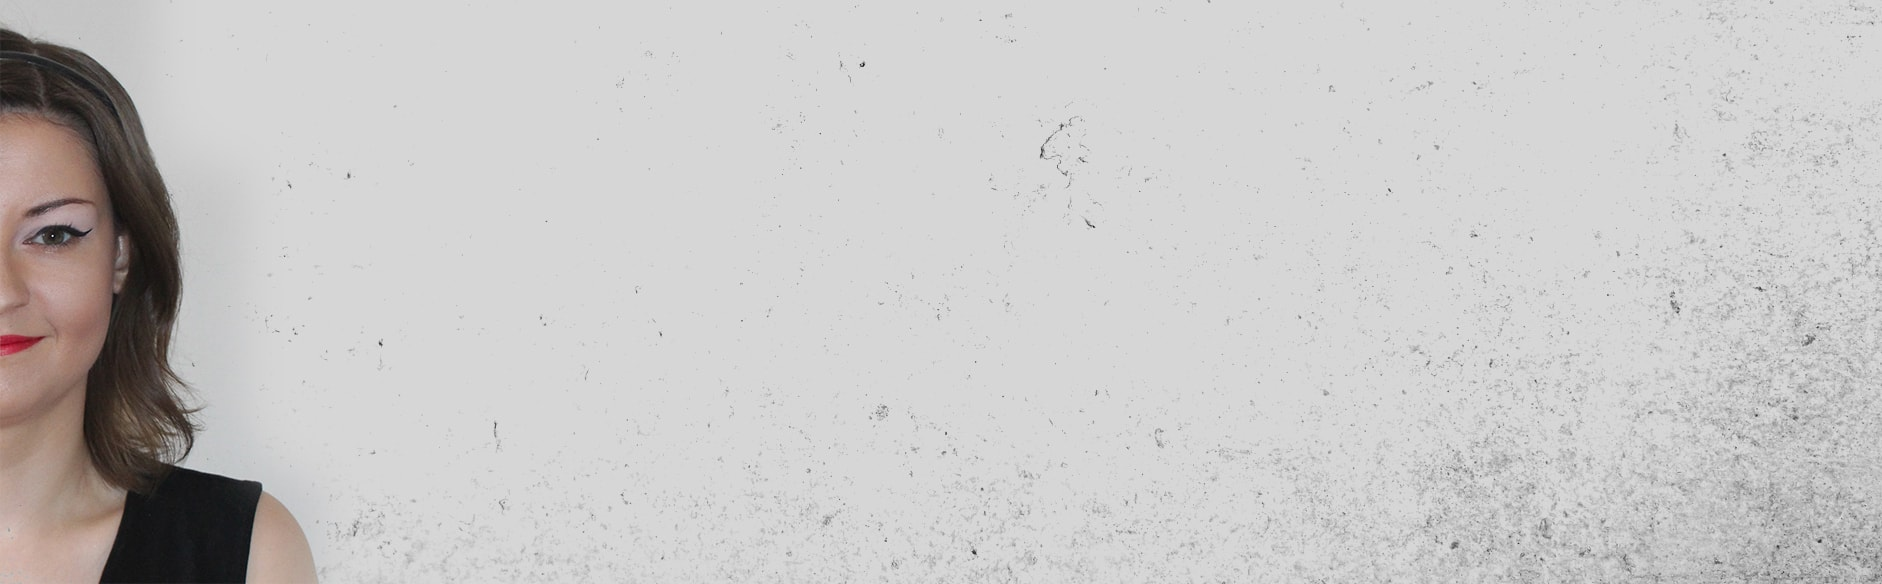
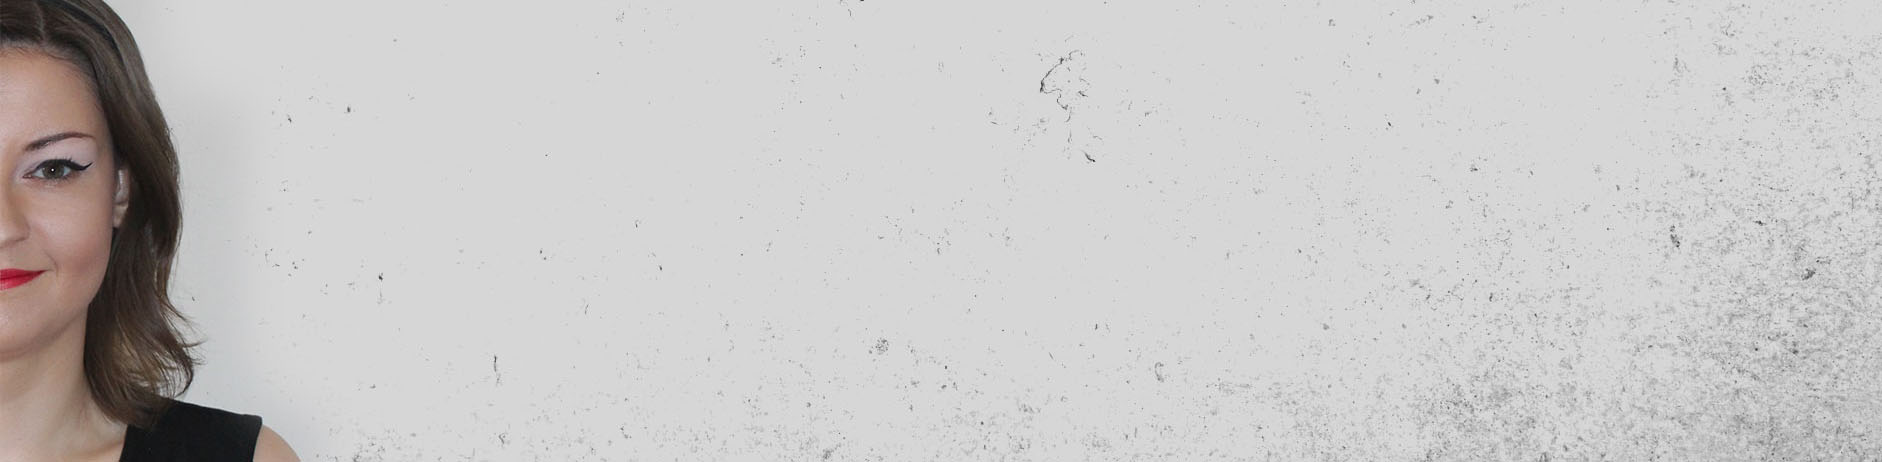
about me

diff --git a/index.html b/index.html
@@ -87,22 +87,29 @@
     
     <div class="about-me" id="about">
             <div class="row">
-                <div class="col-xs-offset-2 col-xs-10 col-sm-offset-3 col-sm-8 col-lg-offset-2 col-md-8 text-center">
-                    <p class="under-construction">STRONA W TRAKCIE TWORZENIA</p>
-                    <p>Design i kod - karomankiewicz.com</p>
+                <div class="col-xs-12 col-sm-offset-2 col-sm-9  text-center content-box">
+                   <h1><span class="highlight">K</span>arolina <span class="highlight">R</span>omankiewicz</h1>
+                    <p>Do tej pory moim głównym narzędziem pracy były słowa; od pewnego czasu dołączyły do nich także, mówiąc po filmowemu, kody i obrazki. Mam ponad sześcioletnie doświadczenie w pisaniu i redagowaniu tekstów (choć tak naprawdę zaczęłam spędzać więcej czasu w Wordzie niż na graniu w Harry'ego Pottera już w wieku trzynastu lat), a w kodowaniu i tworzeniu projektów stron - roczne, ale już dwa lata wcześniej zaczęłam zabawę z gotowymi szablonami (mam też w swoim życiorysie etap tworzenia szablonów na blogi w latach 2004-2007, w czasach, kiedy style dodawało się głównie inline'owo, a cała strona była jedną wielką rodziną div-ów). W tej chwili każdą wolną chwilę poświęcam na naukę programowania - moim celem są strony przyjemne zarówno wizualnie, jak i funkcjonalnie. Słowo pisane pozostaje jednak dla mnie szczególnie istotne, a liczba poprawianych przecinków w tekstach wcale się nie zmniejsza. </p>
+                    <!--<h2><span class="highlight">U</span>miejętności</h2>-->
+                    
                 </div>
             </div>
     </div>
+    
+    <footer class="footer-info">
+        <p>design &copy; <a href="http://karomankiewicz.com">karo</a></p>
+    </footer>
+    
     <script>
-  (function(i,s,o,g,r,a,m){i['GoogleAnalyticsObject']=r;i[r]=i[r]||function(){
-  (i[r].q=i[r].q||[]).push(arguments)},i[r].l=1*new Date();a=s.createElement(o),
-  m=s.getElementsByTagName(o)[0];a.async=1;a.src=g;m.parentNode.insertBefore(a,m)
-  })(window,document,'script','https://www.google-analytics.com/analytics.js','ga');
+      (function(i,s,o,g,r,a,m){i['GoogleAnalyticsObject']=r;i[r]=i[r]||function(){
+      (i[r].q=i[r].q||[]).push(arguments)},i[r].l=1*new Date();a=s.createElement(o),
+      m=s.getElementsByTagName(o)[0];a.async=1;a.src=g;m.parentNode.insertBefore(a,m)
+      })(window,document,'script','https://www.google-analytics.com/analytics.js','ga');
 
-  ga('create', 'UA-99074543-1', 'auto');
-  ga('send', 'pageview');
+      ga('create', 'UA-99074543-1', 'auto');
+      ga('send', 'pageview');
 
-</script>
+    </script>
     <script src="js/bootstrap.min.js" type="text/javascript"></script>
     <script src="js/app.js" type="text/javascript"></script>
 </body>

diff --git a/css/style.css b/css/style.css
@@ -10,6 +10,16 @@ body {
     font-family: 'Raleway', sans-serif;
 }
 
+a {
+    color: #d40028;
+    text-decoration: none;
+}
+
+a:hover {
+    color: #ffa800;
+    text-decoration: none;
+}
+
 .navbar ul {
     list-style-type: none;
     padding: 0;
@@ -25,11 +35,16 @@ body {
     position: fixed;
     min-height: 100%;
     border: none;
-    
+    -webkit-transition: width 0.65s; /* Safari */
+    transition: width 2s 0.65s;
+    z-index: 9;
 }
 
 .navbar-fixed-full {
     width: 200px;
+    -webkit-transition: width 2s; /* Safari */
+    transition: width 2s;
+
 }
 
 .navbar-fixed-top {
@@ -102,6 +117,7 @@ body {
 
 .social-list-hidden {
     display: none;
+    transition: display 0.2s;
 }
 
 .social-list-open {
@@ -134,7 +150,7 @@ body {
     display: none;
     width: 200px;
     text-transform: uppercase;
-    
+    transition: display 0.1s ease;
 }
 
 .menu-list {
@@ -186,7 +202,7 @@ li a:hover {
 }
 
 .jumbotron {
-    height: 500px;
+    height: 420px;
     background-image: url(../img/header.jpg);
     background-color: #d6d6d6;
     margin-left: 60px;
@@ -279,29 +295,52 @@ li a:hover {
     color: #000;
 }
 
-.header-port-1 {
-    opacity: 0;
-    
-}
-
-.header-port-2 {
-    opacity: 0;
-}
 
 .under-construction {
     font-size: 40px;
 }
 
-@media (min-width: 663px) {
+.footer-info {
+    width: 100%;
+   text-align: center;
+    font-size: 12px;
+    border-top: 1px solid #c4c4c4;
+    padding-top: 12px;
+}
+
+.content-box {
+    padding: 10px;
+}
+
+.content-box p {
+    font-size: 18px;
+}
+
+.content-box h1 {
+    font-size: 36px;
+    margin-bottom: 20px;
+}
+
+.content-box h2 {
+    font-size: 28px;
+    margin-top: 30px;
+    margin-bottom: 20px;
+}
+
+.highlight {
+    color: #ffa800;
+}
+
+@media (min-width: 768px) {
     .navbar-fixed-top {
         display: none;
     }
 }
 
-@media (max-width: 662px) {
+@media (max-width: 767px) {
     .jumbotron {
         background-image: url(../img/small-header.jpg);
-        height: 400px;
+        height: 320px;
         margin-left: 0;
     }
     

diff --git a/js/app.js b/js/app.js
@@ -17,20 +17,19 @@ document.addEventListener("DOMContentLoaded", function () {
     
     menuBtn.addEventListener("click", function(e){
         menuLeft.classList.toggle("navbar-fixed-full");
+        setTimeout(menuChange, 1000);
+
+    }); 
+    
+    function menuChange() {
         menuBtn.classList.toggle("fa-code");
         menuLeftHidden.classList.toggle("menu-show");
         socialList.classList.toggle("social-close");
         socialListHidden.classList.toggle("social-list-open");
-        menuClass.style.marginTop = "30px";
-    }); 
+        menuClass.style.marginTop = "30px"; 
+    }
     
-    redaktor.addEventListener("mouseover", function(e){
-        portfolioRed.style.opacity = "1";
-    });
-    
-    feDev.addEventListener("mouseover", function(e){
-        portfolioFront.style.opacity = "1";
-    })
+
     
                     
 });
